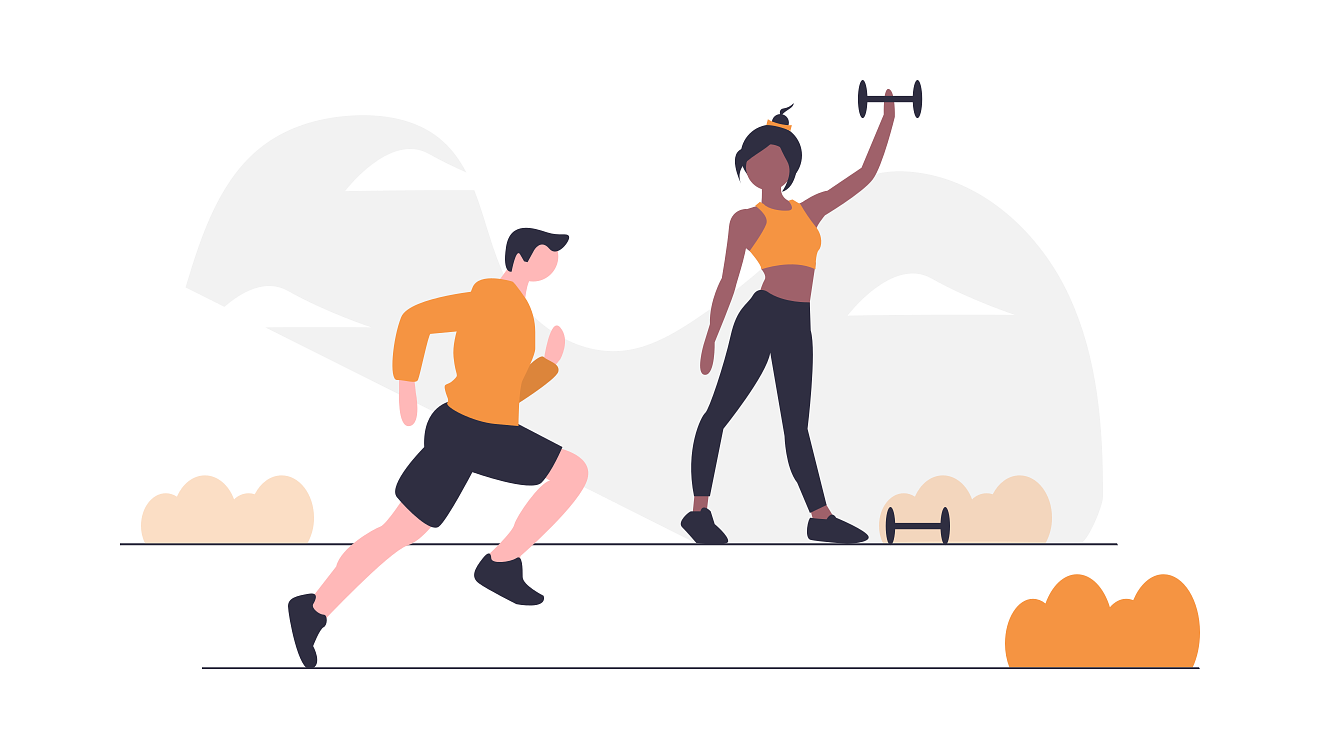
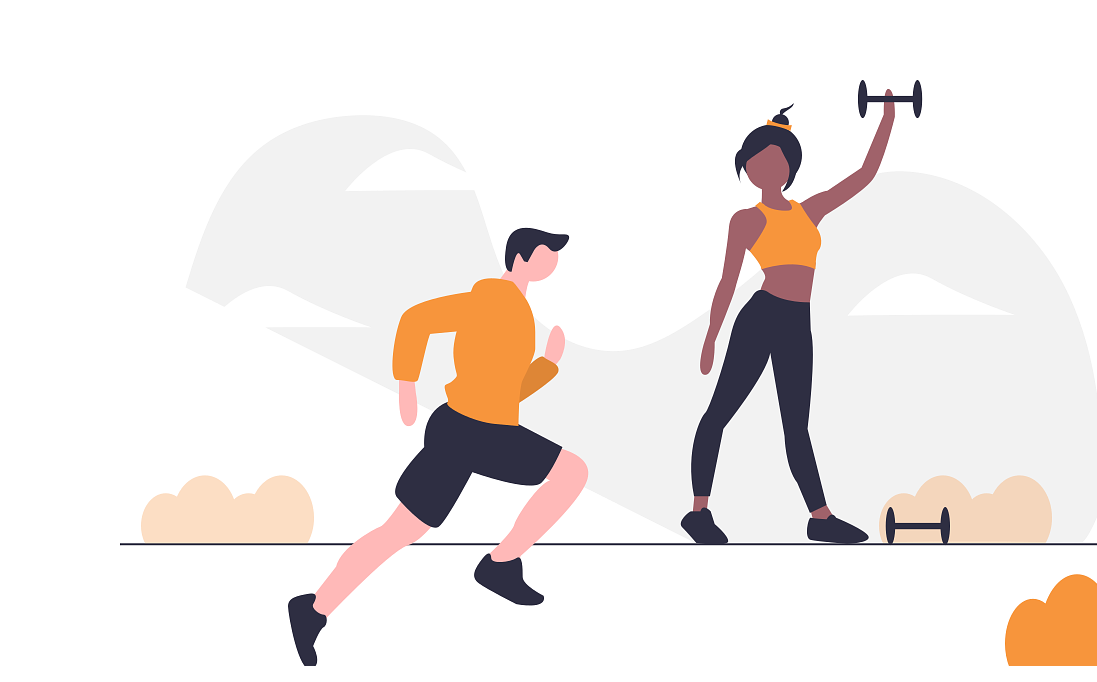
homepage

Changed region(s): [[0.093, 0.0924, 1.0, 0.9853]]

diff --git a/app/assets/stylesheets/pages/_home.scss b/app/assets/stylesheets/pages/_home.scss
@@ -5,8 +5,10 @@
 .banner {
   background-image: asset-url('landing.png');
   background-size: cover;
-  background-position: right;
+  background-position: center;
   padding: 200px 0;
+  margin-top: -50px;
+  margin-left: 20px;
 }
 .landingpaddingcontent {
   margin-top: 32px;
@@ -119,4 +121,7 @@ box-shadow: 0px 13px 20px -11px rgba(30,9,54,0.4);
 }
 .logotag {
   margin-left: 20px;
+}
+.firstdisplay {
+  margin-top: 100px;
 }

diff --git a/app/assets/stylesheets/components/_hife.scss b/app/assets/stylesheets/components/_hife.scss
@@ -12,7 +12,7 @@ p {
   font-family: 'Merriweather', sans-serif;
   font-size: 56px;
   font-weight: 700;
-  margin-top: -40px;
+  margin-top: 40px;
 }
 .display-2 {
   font-family: 'Merriweather', sans-serif;
@@ -142,4 +142,7 @@ font-weight: 300;
 .container-slider {
   width: 450px;
   margin: 0px auto;
+}
+.container {
+  max-width: 1300px;
 }

diff --git a/app/assets/stylesheets/components/_navbar.scss b/app/assets/stylesheets/components/_navbar.scss
@@ -26,6 +26,7 @@
 }
 .navbar-lewagon-white {
   background-color: white;
+  padding:16px
 }
 .sticky {
   position: fixed;
